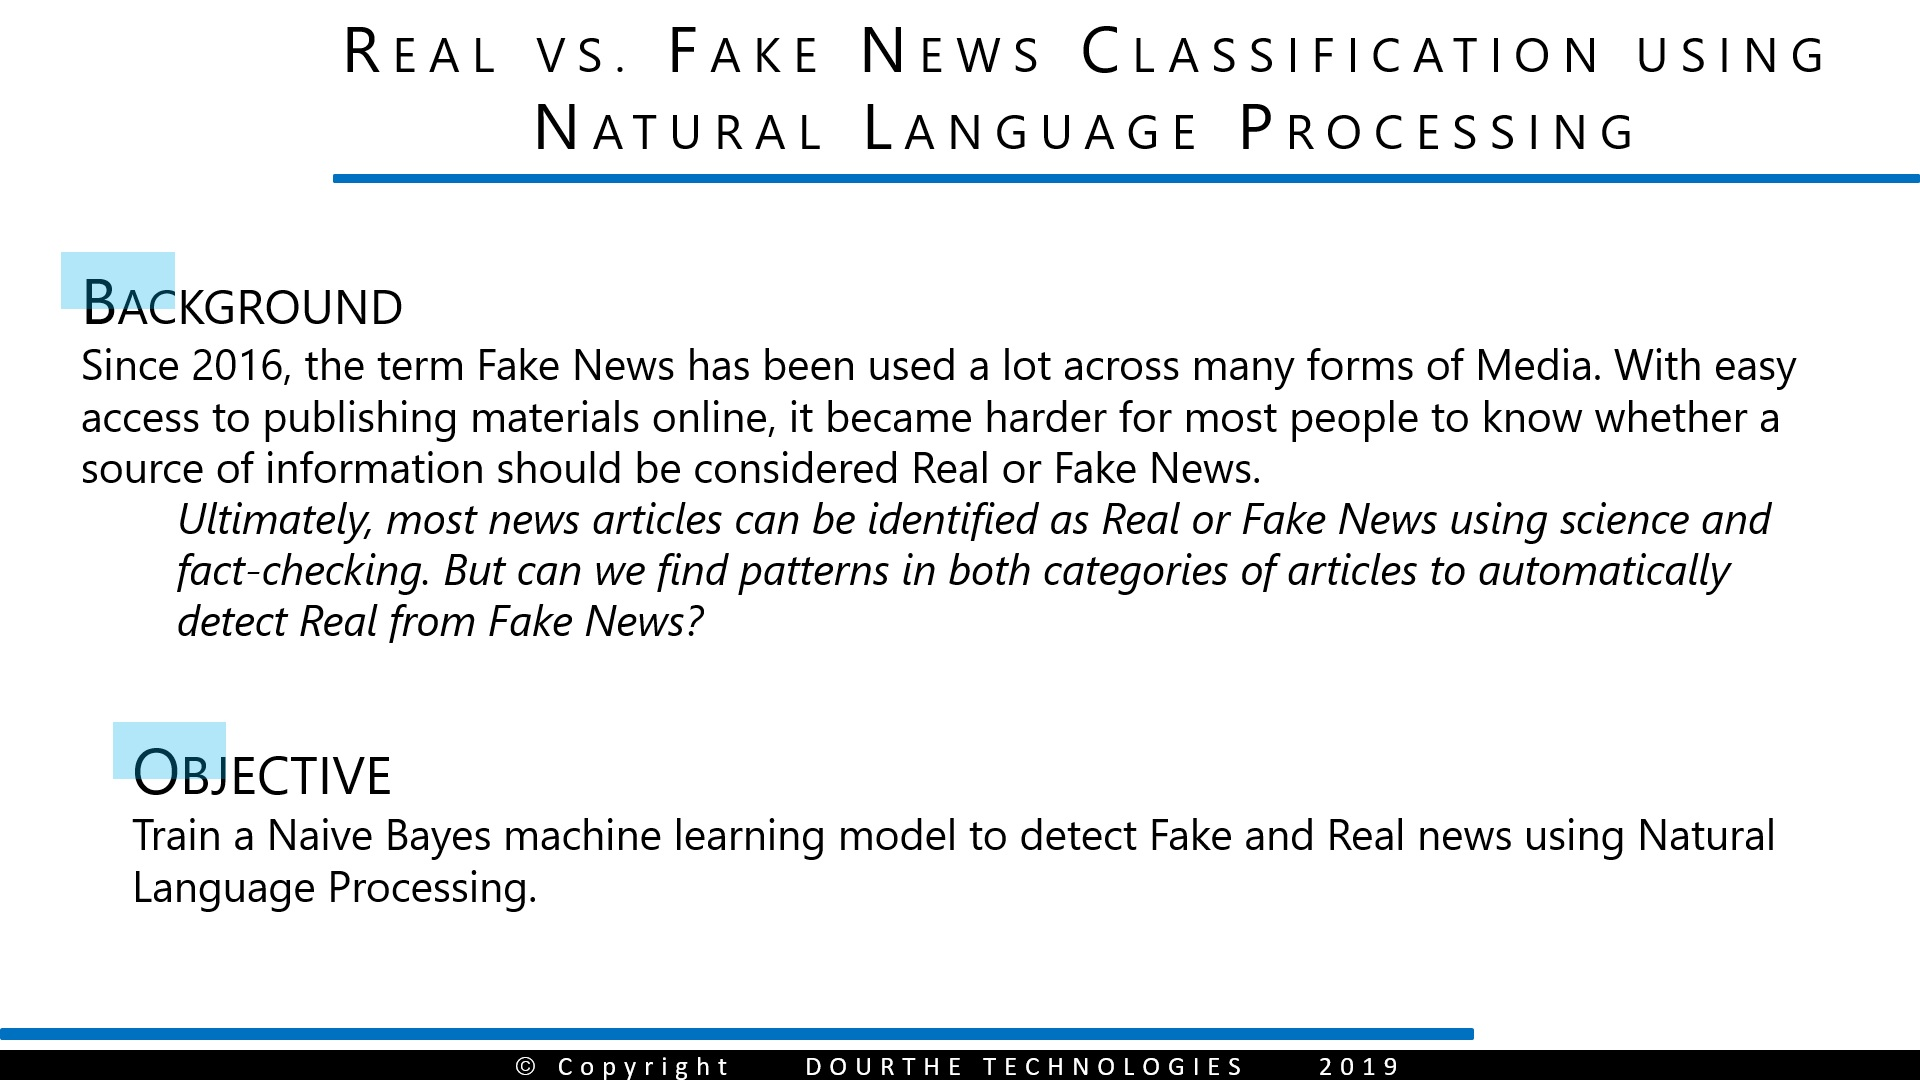
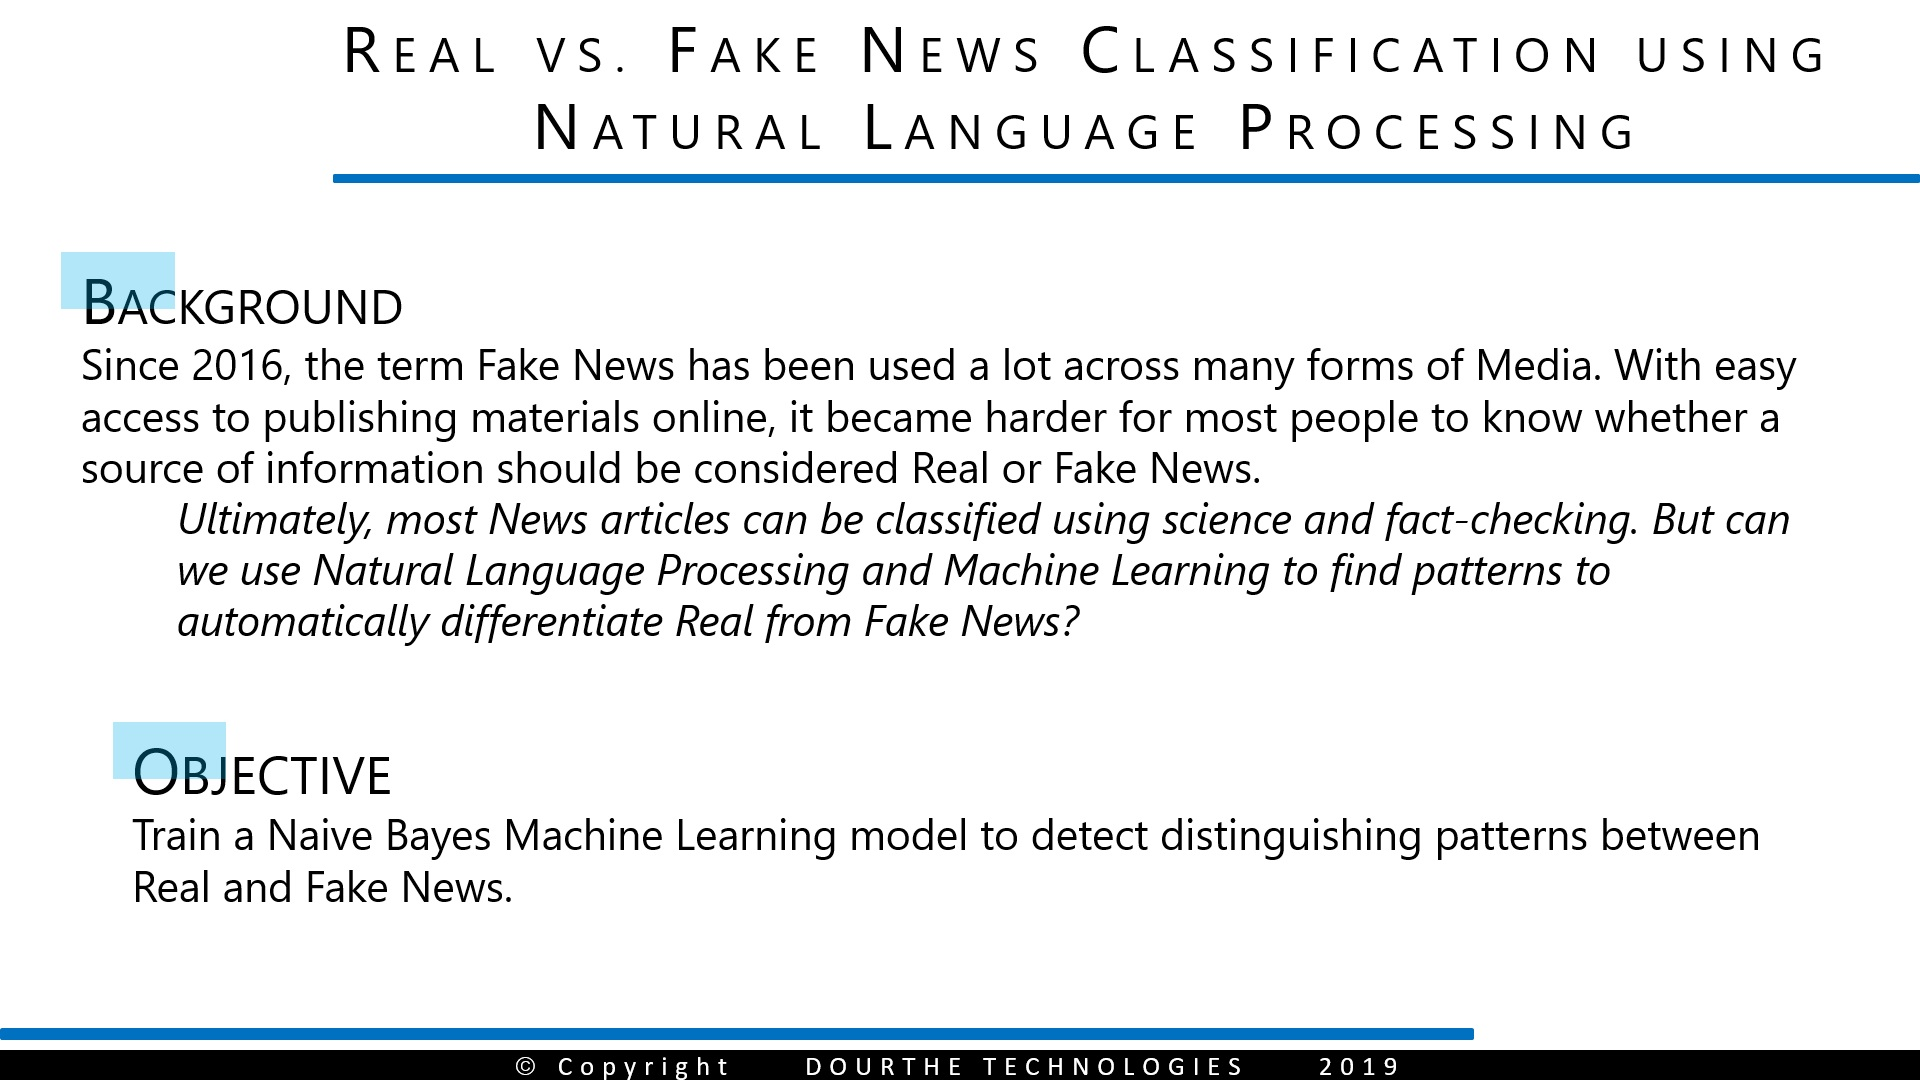
thumbnails updated and skills added in index

Changed region(s): [[0.0938, 0.4583, 0.9375, 0.6111], [0.0625, 0.7639, 0.9375, 0.8556]]

diff --git a/index.html b/index.html
@@ -134,7 +134,7 @@
                 <div class="owl-carousel owl-theme">
 
                     <div class="skill">
-                        <span class="chart" data-percent="90">
+                        <span class="chart" data-percent="95">
                             <span class="percent">Expert</span>
                             <canvas height="152" width="152"></canvas>
                         </span>
@@ -147,21 +147,49 @@
                             <span class="percent">Expert</span>
                             <canvas height="152" width="152"></canvas>
                         </span>
-                        <h4>Algorithm development</h4>
-                        <p>Ability to develop codes for data management, processing and analysis in Python (advanced), Matlab (advanced), SQL (intermediate) and R (intermediate)</p>
-                    </div>
-
-                    <div class="skill">
-                        <span class="chart" data-percent="80">
-                            <span class="percent">Expert</span>
-                            <canvas height="152" width="152"></canvas>
-                        </span>
                         <h4>Biomedical engineering</h4>
                         <p>Knowledge of human physiology, biomechanical behaviors, biosignals and image processing, computer modeling and advanced data analysis and interpretation</p>
                     </div>
 
                     <div class="skill">
-                        <span class="chart" data-percent="70">
+                        <span class="chart" data-percent="90">
+                            <span class="percent">Expert</span>
+                            <canvas height="152" width="152"></canvas>
+                        </span>
+                        <h4>Algorithm development</h4>
+                        <p>Ability to develop codes for data management, processing and analysis in Python (advanced), Matlab (advanced), SQL (intermediate) and R (intermediate)</p>
+                    </div>
+
+
+                    <div class="skill">
+                        <span class="chart" data-percent="85">
+                            <span class="percent">Advanced</span>
+                            <canvas height="152" width="152"></canvas>
+                        </span>
+                        <h4>Machine learning</h4>
+                        <p>Develop supervised and unsupervised learning algorithms for classification and regression applications</p>
+                    </div>
+
+                    <div class="skill">
+                        <span class="chart" data-percent="80">
+                            <span class="percent">Advanced</span>
+                            <canvas height="152" width="152"></canvas>
+                        </span>
+                        <h4>Deep learning</h4>
+                        <p>Develop neural network architectures for classification and data enhancement on images and time series data</p>
+                    </div>
+
+                    <div class="skill">
+                        <span class="chart" data-percent="75">
+                            <span class="percent">Advanced</span>
+                            <canvas height="152" width="152"></canvas>
+                        </span>
+                        <h4>Natural language processing</h4>
+                        <p>Process text data for machine learning applications (tokenization, vectorization, TD-IDF)</p>
+                    </div>
+
+                    <div class="skill">
+                        <span class="chart" data-percent="80">
                             <span class="percent">Advanced</span>
                             <canvas height="152" width="152"></canvas>
                         </span>
@@ -170,16 +198,16 @@
                     </div>
 
                     <div class="skill">
-                        <span class="chart" data-percent="60">
+                        <span class="chart" data-percent="70">
                             <span class="percent">Intermediate</span>
                             <canvas height="152" width="152"></canvas>
                         </span>
-                        <h4>Machine learning</h4>
-                        <p>Develop deep learning classification and/or sequence models to process or enhance images and time series data</p>
+                        <h4>SQL</h4>
+                        <p>Practical experience performing basic SQL queries using PostgreSQL</p>
                     </div>
 
                     <div class="skill">
-                        <span class="chart" data-percent="85">
+                        <span class="chart" data-percent="90">
                             <span class="percent">Expert</span>
                             <canvas height="152" width="152"></canvas>
                         </span>
@@ -188,7 +216,7 @@
                     </div>
 
                     <div class="skill">
-                        <span class="chart" data-percent="90">
+                        <span class="chart" data-percent="95">
                             <span class="percent">Expert</span>
                             <canvas height="152" width="152"></canvas>
                         </span>
@@ -197,7 +225,7 @@
                     </div>
 
                     <div class="skill">
-                        <span class="chart" data-percent="40">
+                        <span class="chart" data-percent="55">
                             <span class="percent">Beginner</span>
                             <canvas height="152" width="152"></canvas>
                         </span>